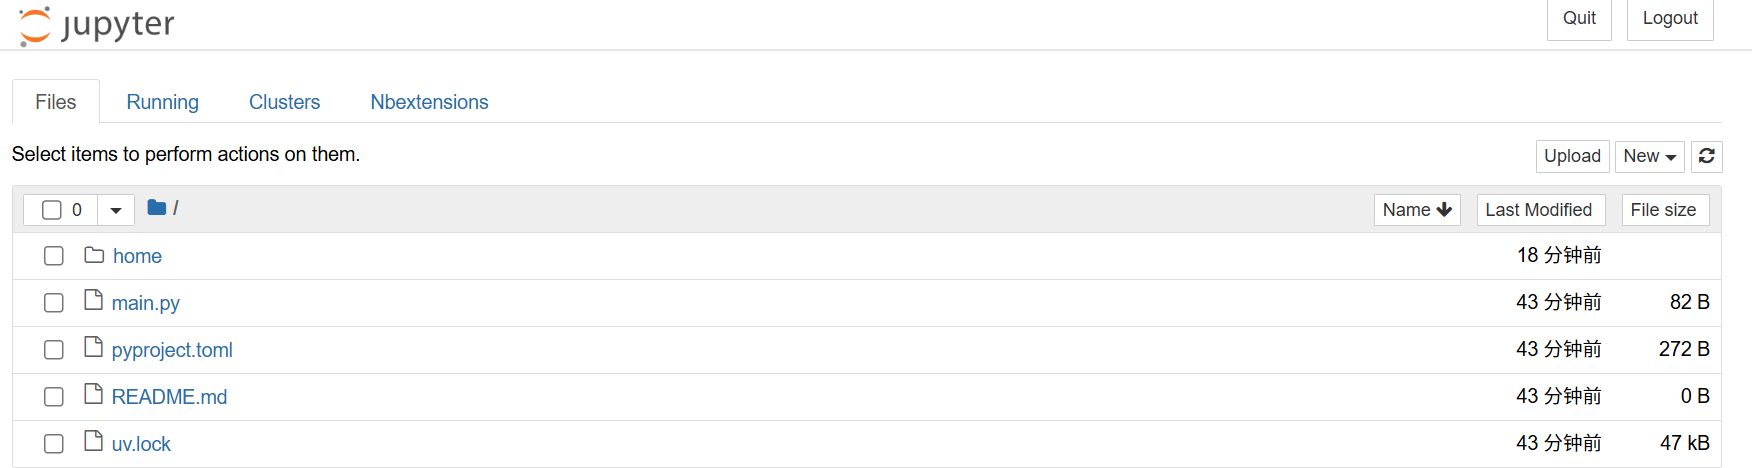
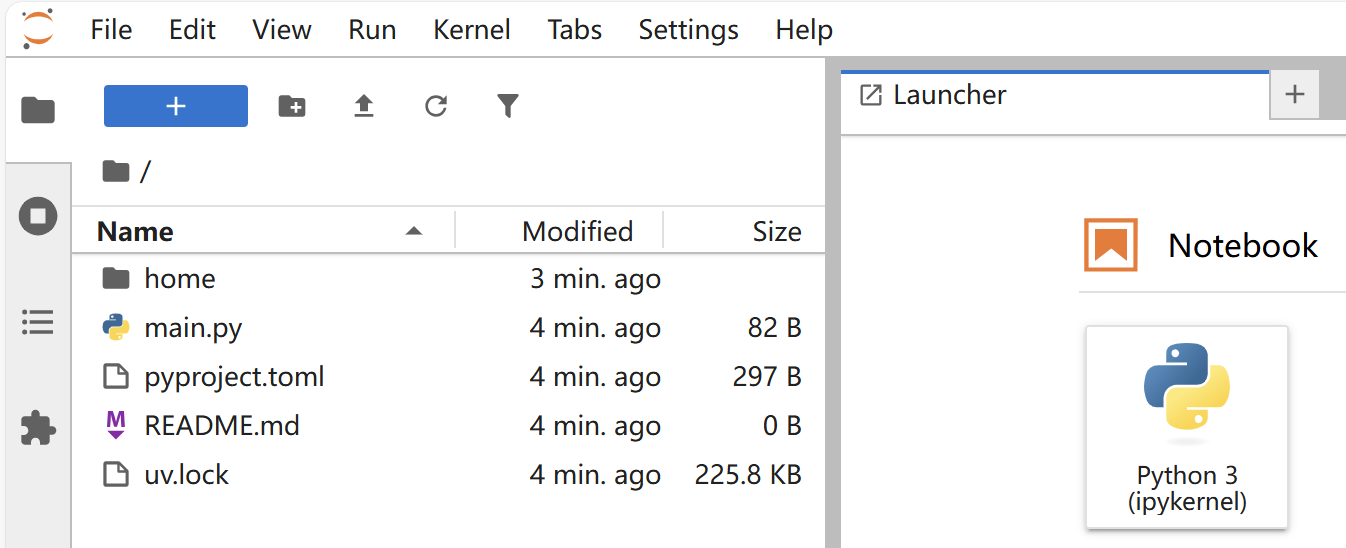
1. add init to s 2. rename lib to glib 3. use jupyter lab as the default

diff --git a/quark/app/_db.py b/quark/app/_db.py
@@ -28,9 +28,17 @@ import numpy as np
 from loguru import logger
 from srpc import loads
 
-from quark.proxy import HOME
+sql = {}
 
-sql = sqlite3.connect(HOME / 'checkpoint.db', check_same_thread=False)
+
+def db():
+    from quark.proxy import HOME
+    path: str = str(HOME / 'checkpoint.db')
+    try:
+        return sql[path]
+    except KeyError:
+        print(f'Database path: {path}')
+        return sql.setdefault(path, sqlite3.connect(path, check_same_thread=False))
 
 
 def reshape(raw: np.ndarray | list, shape: tuple | list):
@@ -92,8 +100,9 @@ def get_commit_by_tid(tid: int = 0):
         # else:
         #     home = Path.home() / 'Desktop/home'
 
+        from quark.proxy import HOME
         file = (HOME / f'cfg/{ckpt}').with_suffix('.json')
-        # print(file)
+        print(file)
 
         repo = git.Repo(file.resolve().parent)
         if not tid:
@@ -112,27 +121,27 @@ def get_tid_by_rid(rid: int):
 
 def get_record_by_tid(tid: int, table: str = 'task'):
     try:
-        return sql.execute(f'select * from {table} where tid="{tid}"').fetchall()[0]
+        return db().execute(f'select * from {table} where tid="{tid}"').fetchall()[0]
     except Exception as e:
         logger.error(f'Record not found: {e}!')
 
 
 def get_record_by_rid(rid: int, table: str = 'task'):
     try:
-        return sql.execute(f'select * from {table} where id="{rid}"').fetchall()[0]
+        return db().execute(f'select * from {table} where id="{rid}"').fetchall()[0]
     except Exception as e:
         logger.error(f'Record not found: {e}!')
 
 
 def get_record_list_by_name(task: str, start: str, end: str, table: str = 'task'):
     try:
-        return sql.execute(f'select * from {table} where name like "%{task}%" and created between "{start}" and "{end}" limit -1').fetchall()
+        return db().execute(f'select * from {table} where name like "%{task}%" and created between "{start}" and "{end}" limit -1').fetchall()
     except Exception as e:
         logger.error(f'Records not found: {e}!')
 
 
 def get_record_set_by_name():
     try:
-        return sql.execute('select distinct task.name from task').fetchall()
+        return db().execute('select distinct task.name from task').fetchall()
     except Exception as e:
         logger.error(f'Records not found: {e}!')

diff --git a/quark/proxy.py b/quark/proxy.py
@@ -43,24 +43,31 @@ from threading import Thread, current_thread
 import numpy as np
 from loguru import logger
 
-try:
-    QUARK = {"server": {"home": Path.home() / "Desktop/home"}}
-    for qjs in [Path.cwd() / 'quark.json', Path.home() / 'quark.json']:
-        if qjs.exists():
-            with open(qjs, 'r') as f:
-                print(f'Load settings from {qjs}')
-                QUARK = json.loads(f.read())
-                break
-    HOME = Path(QUARK['server']['home']).resolve()
-    HOME.mkdir(parents=True, exist_ok=True)
-    if str(HOME) not in sys.path:
-        sys.path.append(str(HOME))
-except Exception as e:
-    # logger.error(str(e))
-    os.remove(qjs)
-    logger.critical('Restart and try again!!!')
-    raise KeyboardInterrupt
-    QUARK = {}
+
+def init(path: str | Path = Path.cwd() / 'quark.json'):
+    global QUARK, HOME
+
+    try:
+        QUARK = {"server": {"home": Path.home() / "Desktop/home"}}
+        for qjs in [Path(path), Path.home() / 'quark.json']:
+            if qjs.exists():
+                with open(qjs, 'r') as f:
+                    print(f'Load settings from {qjs}')
+                    QUARK = json.loads(f.read())
+                    break
+        HOME = Path(QUARK['server']['home']).resolve()
+        HOME.mkdir(parents=True, exist_ok=True)
+        if str(HOME) not in sys.path:
+            sys.path.append(str(HOME))
+
+        return QUARK, HOME
+    except Exception as e:
+        os.remove(qjs)
+        logger.critical('Restart and try again!!!')
+        raise KeyboardInterrupt
+
+
+QUARK, HOME = init()
 
 
 def setlog(prefix: str = ''):

diff --git a/quark/app/__init__.py b/quark/app/__init__.py
@@ -49,18 +49,6 @@ class Super(object):
     def __init__(self):
         pass
 
-    def __repr__(self):
-        try:
-            return f'connection to {self.addr}'
-        except Exception as e:
-            return ''
-
-    def qs(self):
-        try:
-            return self._s
-        except Exception as e:
-            raise AttributeError('Please login first!')
-
     def fig(self):
         from ._viewer import fig
         return fig
@@ -72,6 +60,22 @@ class Super(object):
     def terminal(self, command: str | None = None, cwd: str | None = None):
         from quark.terminal import open_terminal
         open_terminal(command, cwd)
+
+    def init(self, path: str | Path = Path.cwd() / 'quark.json'):
+        from quark.proxy import init
+        init(path)
+
+    def __repr__(self):
+        try:
+            return f'connection to {self.addr}'
+        except Exception as e:
+            return ''
+
+    def qs(self):
+        try:
+            return self._s
+        except Exception as e:
+            raise AttributeError('Please login first!')
 
     @property
     def addr(self):

diff --git a/quark/interface/systemq.py b/quark/interface/systemq.py
@@ -45,7 +45,7 @@ except Exception as e:
 
 try:
     try:
-        from lib import DictDriver, get_arch, qcompile, sample_waveform
+        from glib import DictDriver, get_arch, qcompile, sample_waveform
     except ImportError as e:
         from qlispc import get_arch
         from qlispc.kernel_utils import qcompile, sample_waveform

diff --git a/docs/usage/beginner.md b/docs/usage/beginner.md
@@ -93,10 +93,28 @@ icon: material/badge-account-horizontal
 
 - 安装**quarkstudio**
     ```bash
-    uv add quarkstudio --default-index=https://mirrors.tuna.tsinghua.edu.cn/pypi/web/simple
+    uv add quarkstudio jupyterlab --default-index=https://mirrors.tuna.tsinghua.edu.cn/pypi/web/simple
     ```
 
-    下载驱动等文件到指定目录，如./home
+    下载驱动等文件到指定目录，如***./home*** (1)
+    { .annotate }
+    
+    1. **home配置**
+        - `quark init`命令会在用户目录下生成全局配置文件**quark.json**
+        - 将此配置文件复制到**qlab**目录下，则仅对当前环境生效
+        ```json title="quark.json"
+        {
+            "server": {
+                "home": "C:\\Users\\***\\Desktop\\home",
+                "repo": "https://gitee.com/baqis/systemq.git"
+            },
+            "studio": {
+                "theme": "light",
+                "console": false
+            }
+        }
+        ```
+
     ```bash
     uv run quark init --home ./home -i https://mirrors.tuna.tsinghua.edu.cn/pypi/web/simple
     ```
@@ -128,7 +146,7 @@ icon: material/badge-account-horizontal
 ## **实验过程**
 ### **启动服务**
 - 打开终端，确保切换到**qlab**目录下，执行`uv run quark server`以启动[**QuarkServer**](quark/server.md)(后以**server**代称)。启动成功如下图所示，![](quarkserver0.png)
-- 打开另一终端，确保切换到**qlab**目录下，执行`uv run jupyter notebook`![](notebook.png)
+- 打开另一终端，确保切换到**qlab**目录下，执行`uv run jupyter lab`![](notebook.png)
 - 新建一个notebook，后续所有操作均在此notebook中进行
 
 
@@ -138,6 +156,8 @@ icon: material/badge-account-horizontal
     import matplotlib.pyplot as plt
     import numpy as np
     from quark.app import Recipe, s#(1)!
+
+    # s.init('path/to/quark.json') (2)
     ```
 
     1. :material-language-python: quark.app
@@ -148,10 +168,13 @@ icon: material/badge-account-horizontal
             - 删除参数：`s.delete('Q0.Measure.frequency')`
             - 写设备：`s.write('ZW_AD3.CH1.Offset', 0.2)`
             - 读设备：`s.read('ZW_AD3.CH1.Offset')`
-            - 提交任务: `s.submit(rcp.export())`，提交Recipe
+            - 提交任务: `s.submit(rcp.export())`
             - 历史记录：`s.lookup()`
             - 历史数据：`s.result(tid)`，根据任务id获取
-            - 历史参数表：`s.snapshot(tid)`: 根据任务id获取
+            - 历史参数表：`s.snapshot(tid)`，根据任务id获取
+    2. :material-language-python: 更改配置
+        - **可选操作，默认读取~/quark.json**，
+        - 如果在**qlab**中有一个**quark.json**文件，执行`s.init`可将**s**的操作路径指向其中的**home**
 
 
 - #### **注册登录**
